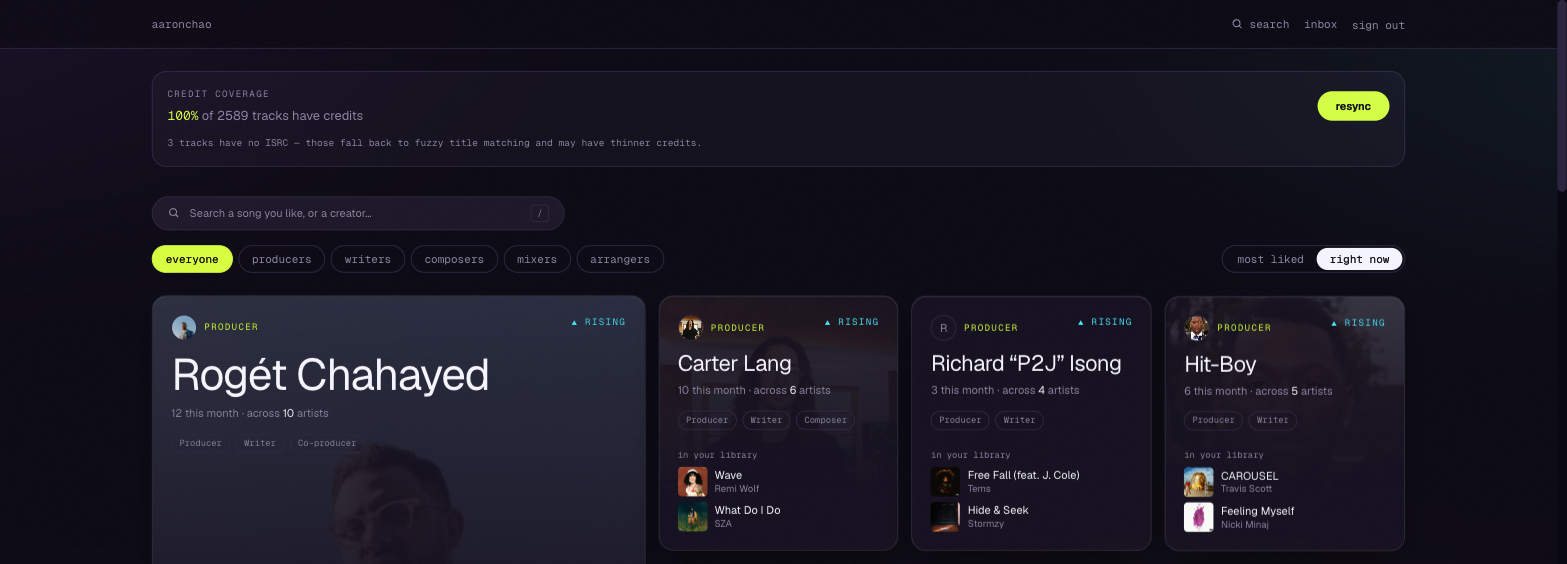
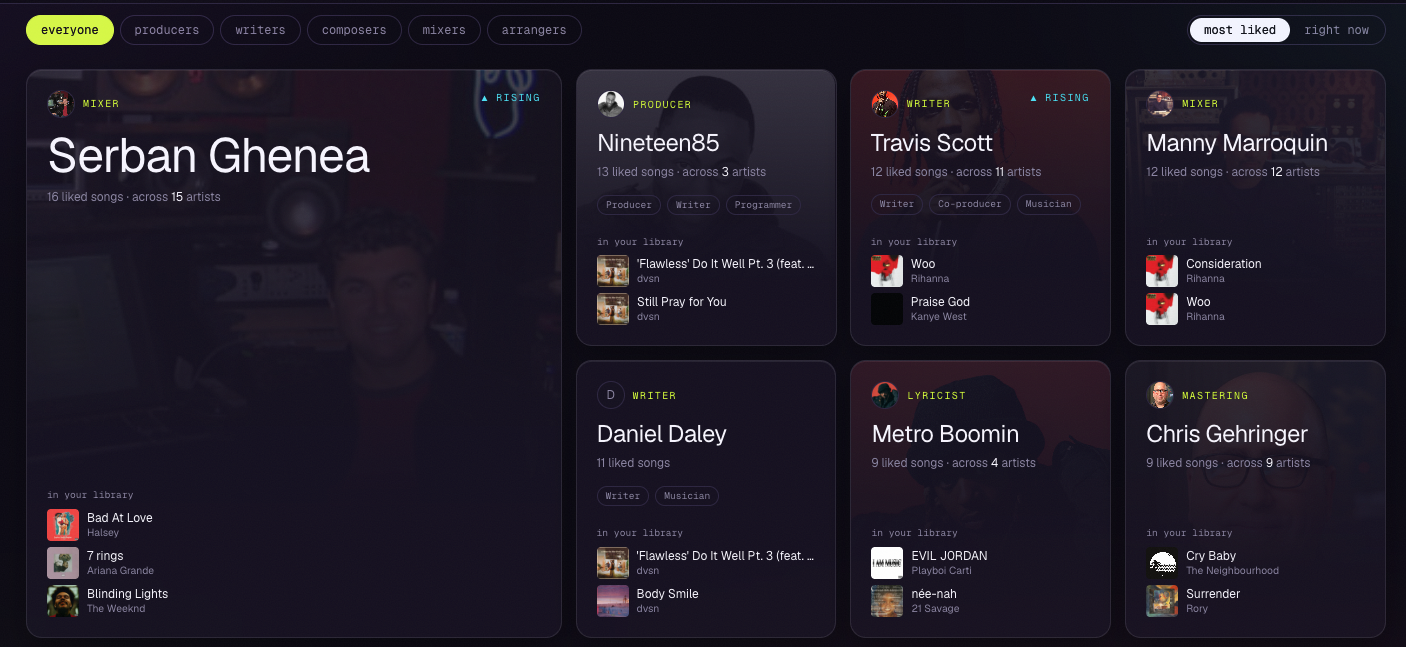
Real Backliner/WaveFM screenshots, bolder shorter hero copy, name fix
Swap in the actual product screenshots for Backliner and WaveFM.
Shrink and simplify the hero line to "I build what's missing." and
correct the displayed name to Aaron Chao across metadata, footer, and nav.

diff --git a/app/page.tsx b/app/page.tsx
@@ -8,14 +8,8 @@ export default function Home() {
       <Nav />
 
       <header className="px-4 pb-10 pt-6 sm:px-8 sm:pb-16">
-        <h1 className="font-display leading-[0.85] tracking-tight text-[15vw] sm:text-[9vw]">
-          I BUILT
-          <br />
-          EVERYTHING
-          <br />
-          THAT DOESN&apos;T
-          <br />
-          EXIST
+        <h1 className="font-display leading-[0.9] tracking-tight text-[7.5vw] sm:text-[4.5vw]">
+          I build what&apos;s missing.
         </h1>
         <p className="mt-6 max-w-[52ch] text-[15px] leading-relaxed opacity-70 sm:text-base">
           Six products. Six gaps nothing else filled. Not concepts, not
@@ -42,7 +36,7 @@ export default function Home() {
       </section>
 
       <footer className="flex items-center justify-between px-4 py-10 text-[12px] uppercase tracking-widest opacity-60 sm:px-8">
-        <span>© {new Date().getFullYear()} Aaron Liu</span>
+        <span>© {new Date().getFullYear()} Aaron Chao</span>
         <a href="mailto:aaronchao@gmail.com" data-cursor="link">
           aaronchao@gmail.com
         </a>

diff --git a/app/layout.tsx b/app/layout.tsx
@@ -7,7 +7,7 @@ const sans = Inter({ variable: "--font-sans", subsets: ["latin"] });
 const display = Archivo_Black({ variable: "--font-display", subsets: ["latin"], weight: "400" });
 
 export const metadata: Metadata = {
-  title: "Aaron Liu — I build what doesn't exist",
+  title: "Aaron Chao — I build what's missing",
   description:
     "Fliqpop, WaveFM, PTVon, Backliner, LyricsOn, youtubify — six things that didn't exist until they were built.",
 };

diff --git a/src/components/Nav.tsx b/src/components/Nav.tsx
@@ -4,7 +4,7 @@ export function Nav() {
   return (
     <nav className="flex items-center justify-between px-4 py-6 text-[13px] font-medium uppercase tracking-widest sm:px-8">
       <Link href="/" data-cursor="link">
-        Aaron Liu
+        Aaron Chao
       </Link>
       <div className="flex gap-6 sm:gap-10">
         <a href="#projects" data-cursor="link">

diff --git a/src/data/projects.ts b/src/data/projects.ts
@@ -68,7 +68,7 @@ export const PROJECTS: Project[] = [
     ],
     links: { live: "https://wavefm.vercel.app", github: "https://github.com/aaronchao/wavefm" },
     year: "2026",
-    screenshot: "/screenshots/wavefm.jpg",
+    screenshot: "/screenshots/wavefm.png",
     screenshotType: "web",
   },
   {
